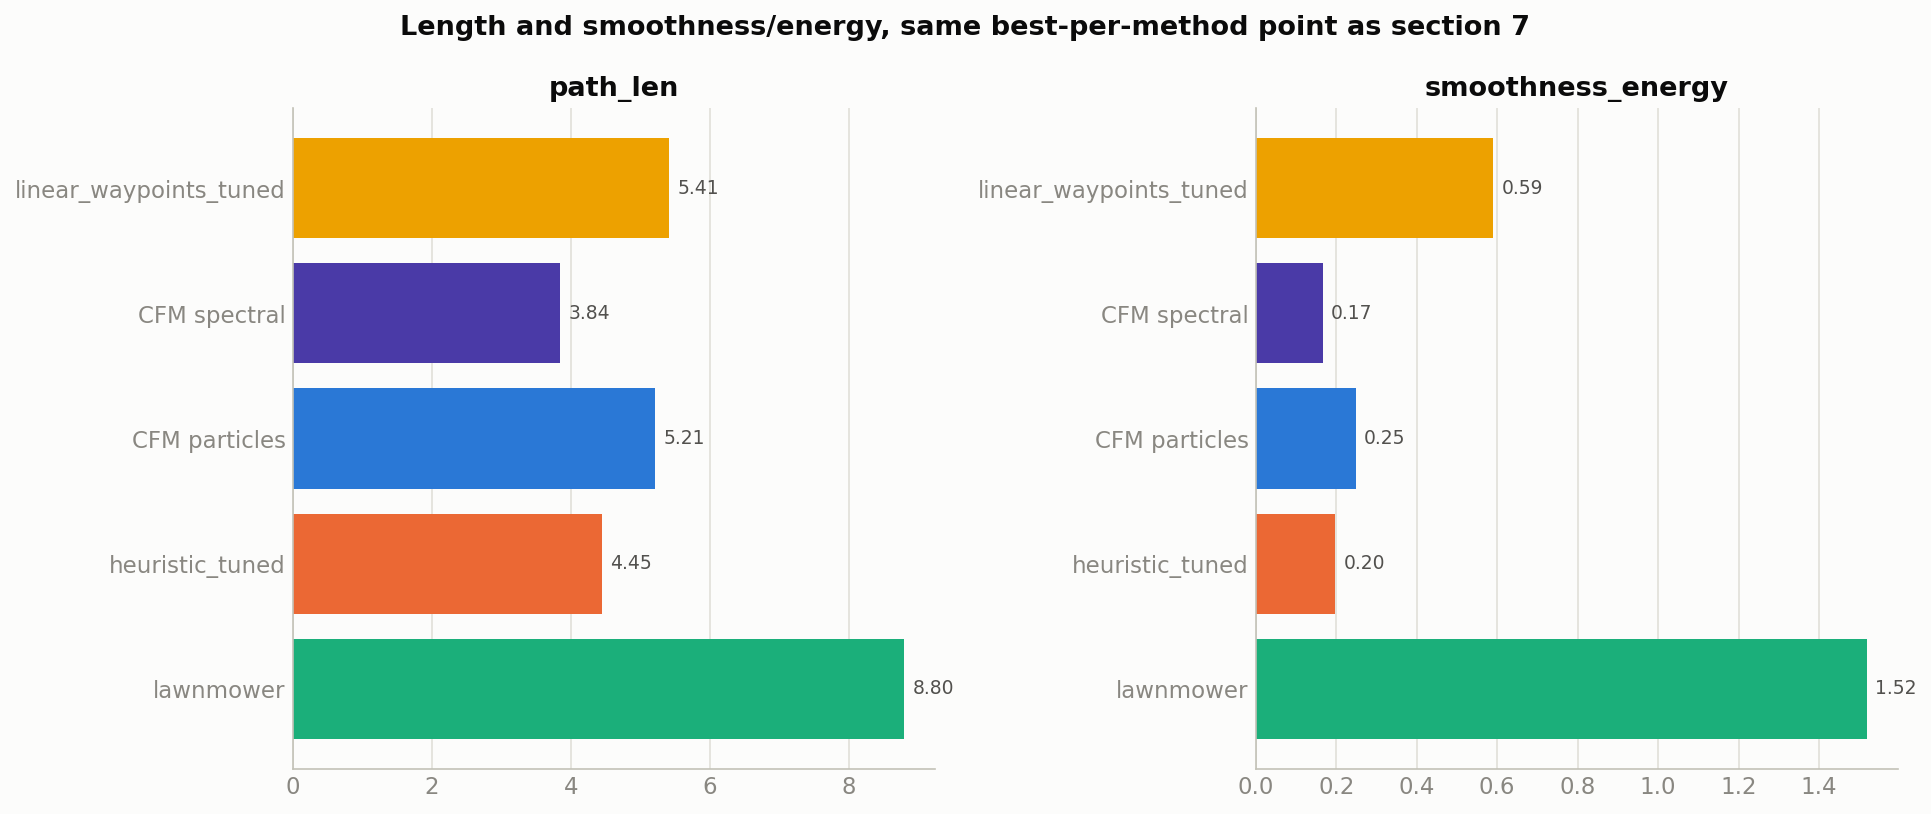
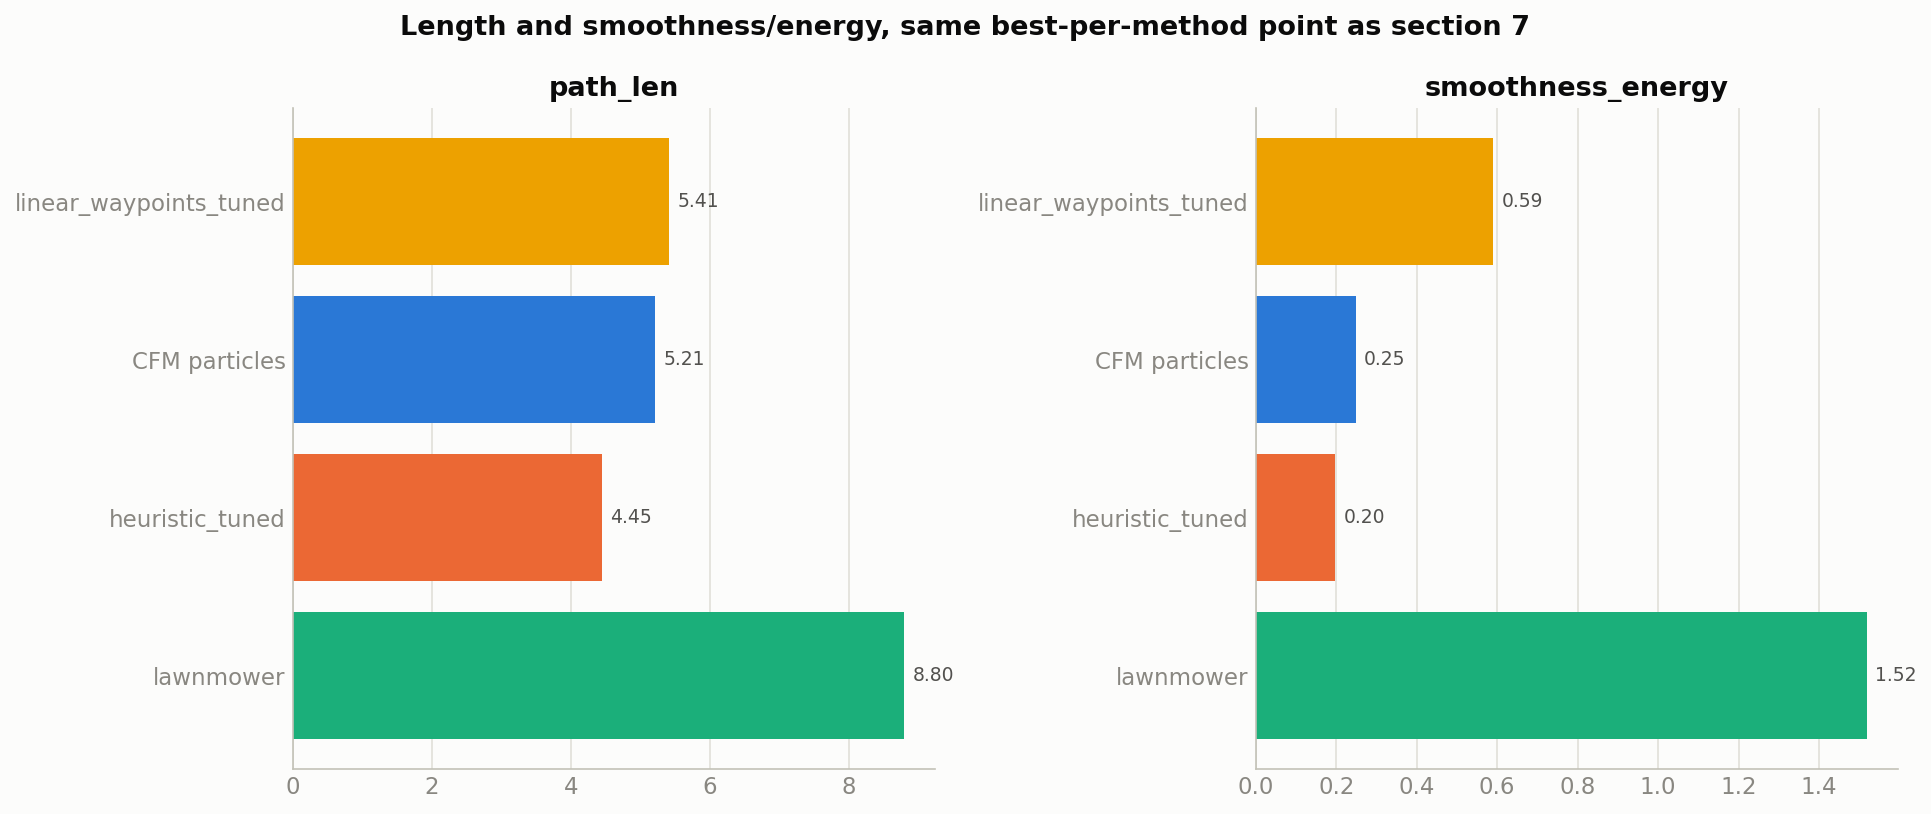
CFM spectral aus dem Kern-Methodenvergleich entfernt (Abschnitt 7 ff.)
Auf Philipps Wunsch: CFM (spectral)-Eintrag aus method_rows/method_subsets
entfernt, analog zur vorherigen random_walk-Entfernung. Betrifft Abschnitt
7, 11, 14, 15, 17 (alle aus method_df/method_subsets abgeleitet); CFM
particles bleibt als alleiniger CFM-Vertreter im Kernvergleich.

diff --git a/thesis_architecture/evaluation_full_matrix/results/analysis_paired_partial_20260918/analyze.py b/thesis_architecture/evaluation_full_matrix/results/analysis_paired_partial_20260918/analyze.py
@@ -327,12 +327,8 @@ method_subsets = {}  # label -> the exact filtered sub-dataframe behind it,
                      # reused by charts 11/12 below so "best per method" is
                      # defined identically everywhere on this page.
 best_cfm_particles = cfm_nr[(cfm_nr['representation'] == 'particles')].groupby('strategy')['E_ergodic_total'].mean().idxmin()
-best_cfm_spectral = cfm_nr[(cfm_nr['representation'] == 'spectral')].groupby('strategy')['E_ergodic_total'].mean().idxmin()
 _lbl = 'CFM (particles, no_replan, best: %s)' % best_cfm_particles
 _sub = cfm_nr[(cfm_nr['representation'] == 'particles') & (cfm_nr['strategy'] == best_cfm_particles)]
-method_rows.append((_lbl, _sub['E_ergodic_total'].mean())); method_subsets[_lbl] = _sub
-_lbl = 'CFM (spectral, no_replan, best: %s)' % best_cfm_spectral
-_sub = cfm_nr[(cfm_nr['representation'] == 'spectral') & (cfm_nr['strategy'] == best_cfm_spectral)]
 method_rows.append((_lbl, _sub['E_ergodic_total'].mean())); method_subsets[_lbl] = _sub
 for method in ['heuristic_tuned', 'linear_waypoints_tuned']:
     m = df[df['method'] == method]

diff --git a/thesis_architecture/evaluation_full_matrix/results/analysis_paired_partial_20260918/SUMMARY.md b/thesis_architecture/evaluation_full_matrix/results/analysis_paired_partial_20260918/SUMMARY.md
@@ -70,7 +70,6 @@ none_known                 25.351238  0.059083
 Fairness-Hinweis: heuristic_tuned/linear_waypoints_tuned sind deterministisch/Einmal-Planung (kein Replan-Konzept) -- CFM wird hier deshalb auf `no_replan` beschraenkt, fuer einen Einmal-Planung-gegen-Einmal-Planung-Vergleich. CFMs replan_1_6-Option ist separat in Abschnitt 5 zu sehen (deutlich schlechter: 23.5 vs. 15.0) -- in dieser Tabelle NICHT mitgemittelt, sonst wuerde CFM unfair schlechter aussehen.
                                              method  E_ergodic_total
             linear_waypoints_tuned (best: mass@500)        10.001251
- CFM (spectral, no_replan, best: mass_tuned_svgd25)        10.550103
 CFM (particles, no_replan, best: mass_tuned_svgd25)        10.868026
                   heuristic_tuned (best: mass@1000)        11.108362
                                           lawnmower        18.780876
@@ -140,7 +139,6 @@ coverage_mean/_std are themselves averages over the 8 shapes within each (knowle
                                                      path_len  smoothness_energy
 method                                                                          
 linear_waypoints_tuned (best: mass@500)              5.410750           0.589565
-CFM (spectral, no_replan, best: mass_tuned_svgd25)   3.844642           0.166365
 CFM (particles, no_replan, best: mass_tuned_svgd25)  5.213950           0.248646
 heuristic_tuned (best: mass@1000)                    4.450089           0.197129
 lawnmower                                            8.799999           1.519248
@@ -167,7 +165,6 @@ This metric is essentially BINARY at the 99% threshold in this data: ~0 only for
                                                      E_ergodic_explore  E_ergodic_exploit
 method                                                                                   
 linear_waypoints_tuned (best: mass@500)                       9.853261           0.147990
-CFM (spectral, no_replan, best: mass_tuned_svgd25)           10.383818           0.166285
 CFM (particles, no_replan, best: mass_tuned_svgd25)          10.754409           0.113617
 heuristic_tuned (best: mass@1000)                            10.957908           0.150454
 lawnmower                                                    18.743589           0.037287
@@ -178,10 +175,6 @@ CFM (particles, no_replan, best: mass_tuned_svgd25)        ground_truth         
 CFM (particles, no_replan, best: mass_tuned_svgd25)          half_known        12.077864
 CFM (particles, no_replan, best: mass_tuned_svgd25)         ten_samples         9.265489
 CFM (particles, no_replan, best: mass_tuned_svgd25)          none_known        21.200627
- CFM (spectral, no_replan, best: mass_tuned_svgd25)        ground_truth         1.219544
- CFM (spectral, no_replan, best: mass_tuned_svgd25)          half_known        12.410256
- CFM (spectral, no_replan, best: mass_tuned_svgd25)         ten_samples        10.515613
- CFM (spectral, no_replan, best: mass_tuned_svgd25)          none_known        18.054997
                   heuristic_tuned (best: mass@1000)        ground_truth         0.191969
                   heuristic_tuned (best: mass@1000)          half_known        13.207155
                   heuristic_tuned (best: mass@1000)         ten_samples        11.182062
@@ -211,14 +204,6 @@ spectral                12.990766   18.525854    28.520191   29.881215
             linear_waypoints_tuned (best: mass@500) rand_ana_poly_10        28.856352
             linear_waypoints_tuned (best: mass@500)      rand_gmm_10         3.407484
             linear_waypoints_tuned (best: mass@500)      rand_gmm_20         8.794724
- CFM (spectral, no_replan, best: mass_tuned_svgd25)                A         7.010389
- CFM (spectral, no_replan, best: mass_tuned_svgd25)             a_lc         9.105075
- CFM (spectral, no_replan, best: mass_tuned_svgd25)          digit_5         7.986795
- CFM (spectral, no_replan, best: mass_tuned_svgd25)    greek_upper_0         6.907504
- CFM (spectral, no_replan, best: mass_tuned_svgd25)         korean_5        13.486910
- CFM (spectral, no_replan, best: mass_tuned_svgd25) rand_ana_poly_10        29.008377
- CFM (spectral, no_replan, best: mass_tuned_svgd25)      rand_gmm_10         3.584139
- CFM (spectral, no_replan, best: mass_tuned_svgd25)      rand_gmm_20         7.311631
 CFM (particles, no_replan, best: mass_tuned_svgd25)                A         9.190910
 CFM (particles, no_replan, best: mass_tuned_svgd25)             a_lc        11.169997
 CFM (particles, no_replan, best: mass_tuned_svgd25)          digit_5         8.306963
